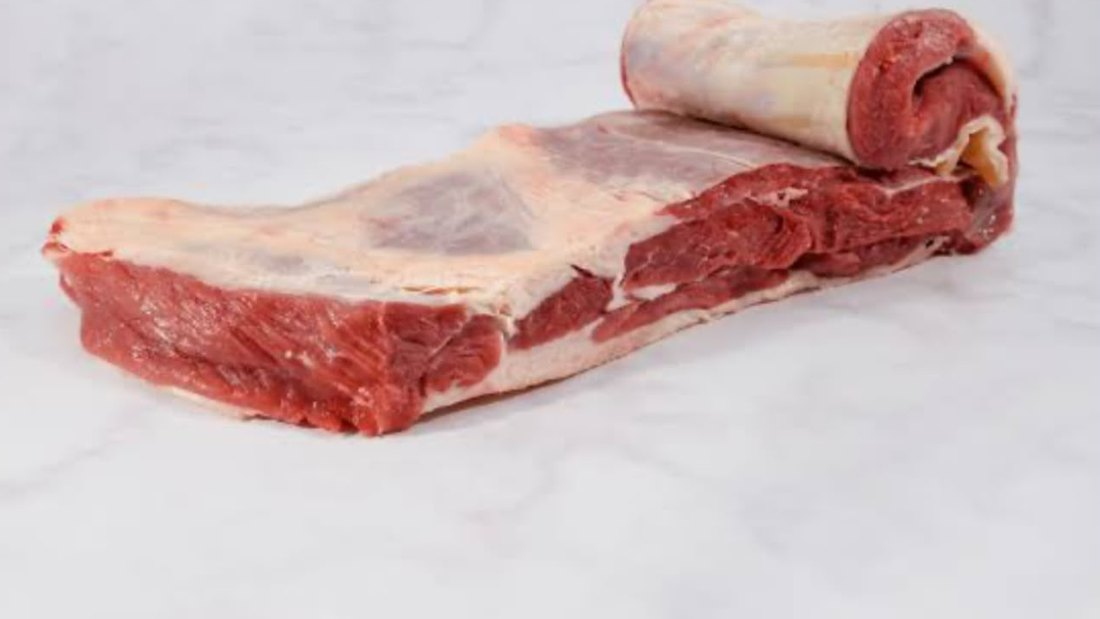
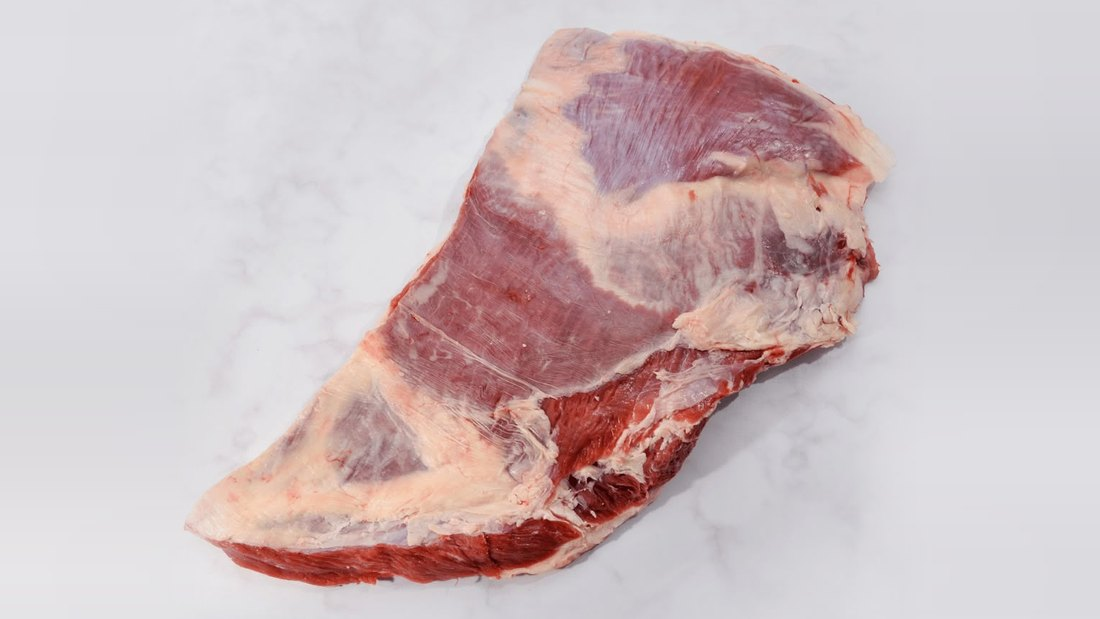
Carne: Entrana a 34.000 y Vacio entero a 25.200 (lista de Lucas del 8/10); las fotos de Vacio porcionado y Vacio entero estaban cruzadas

diff --git a/app.js b/app.js
@@ -33,8 +33,8 @@ var IMG_V = {
   "carne-ojo-bife.jpg": "819ef24d",
   "carne-peceto.jpg": "2bb317d2",
   "carne-picana.jpg": "05684de8",
-  "carne-vacio-entero.jpg": "be8621f0",
-  "carne-vacio.jpg": "c1827fc5",
+  "carne-vacio-entero.jpg": "c1827fc5",
+  "carne-vacio.jpg": "be8621f0",
   "categoria-carnes.jpg": "7b69d315",
   "combo-finde.jpg": "4e0022fd",
   "combo-freezer.jpg": "2d59c6e7",
@@ -149,13 +149,13 @@ const PRODUCTOS = [
   /* La entrana viene de a DOS tiras por paquete (dato de Lucas, 10/9/2026), y
      el peso que se ve es el del paquete entero. Sin decirlo, el que elige una
      de 1,163 kg no sabe si le llega una tira grande o dos. */
-  { id:31, abbr:"CEn", cat:"Carnes", porPeso:true, zonas:["estancias","pilar"], nombre:"Entra\u00f1a",           desc:"Fina, sabrosa y r\u00e1pida. La que sale primero de la parrilla.",          precio:37625, img:"carne-entrana.jpg", emoji:"\ud83e\udd69", chips:["Fresca, no congelada","Envasada al vac\u00edo","2 tiras por paquete"] },
+  { id:31, abbr:"CEn", cat:"Carnes", porPeso:true, zonas:["estancias","pilar"], nombre:"Entra\u00f1a",           desc:"Fina, sabrosa y r\u00e1pida. La que sale primero de la parrilla.",          precio:34000, img:"carne-entrana.jpg", emoji:"\ud83e\udd69", chips:["Fresca, no congelada","Envasada al vac\u00edo","2 tiras por paquete"] },
   { id:32, abbr:"CLo", cat:"Carnes", porPeso:true, zonas:["estancias","pilar"], nombre:"Lomo sin cord\u00f3n",  desc:"El corte m\u00e1s tierno, limpio y sin cord\u00f3n. Para la ocasi\u00f3n que se merece el mejor.", precio:33000, img:"carne-lomo.jpg", emoji:"\ud83e\udd69", chips:["Fresco, no congelado","Envasado al vac\u00edo","Sin cord\u00f3n"] },
   { id:33, abbr:"CPi", cat:"Carnes", porPeso:true, zonas:["estancias","pilar"], nombre:"Pica\u00f1a",            desc:"El corte brasilero que se volvi\u00f3 infaltable. Con su tapa de grasa.",  precio:22875, img:"carne-picana.jpg", emoji:"\ud83e\udd69", chips:["Fresca, no congelada","Envasada al vac\u00edo"] },
   { id:34, abbr:"CVa", cat:"Carnes", porPeso:true, zonas:["estancias","pilar"], nombre:"Vac\u00edo porcionado", desc:"El cl\u00e1sico del asado argentino, en porciones. Paciencia y fuego bajo.", precio:26000, img:"carne-vacio.jpg", emoji:"\ud83e\udd69", chips:["Fresco, no congelado","Envasado al vac\u00edo","Porcionado"] },
   /* Los cortes de LM Carnes (7/10/2026): ids 35-41 del ERP (HOME_PRODUCT_COLS
      CJ-CP, PILAR CB-CH, RED CM-CS). Precios de la lista de Lucas. */
-  { id:35, abbr:"CVE", cat:"Carnes", porPeso:true, zonas:["estancias","pilar"], nombre:"Vac\u00edo entero", desc:"La pieza entera, como la pide el asador. Para una parrillada en serio.", precio:26000, img:"carne-vacio-entero.jpg", emoji:"\ud83e\udd69", chips:["Fresco, no congelado","Envasado al vac\u00edo","Pieza entera"] },
+  { id:35, abbr:"CVE", cat:"Carnes", porPeso:true, zonas:["estancias","pilar"], nombre:"Vac\u00edo entero", desc:"La pieza entera, como la pide el asador. Para una parrillada en serio.", precio:25200, img:"carne-vacio-entero.jpg", emoji:"\ud83e\udd69", chips:["Fresco, no congelado","Envasado al vac\u00edo","Pieza entera"] },
   { id:36, abbr:"CBC", cat:"Carnes", porPeso:true, zonas:["estancias","pilar"], nombre:"Bife de Chorizo", desc:"Jugoso y con su borde de grasa. El cl\u00e1sico de la parrilla.", precio:29250, img:"carne-bife-chorizo.jpg", emoji:"\ud83e\udd69", chips:["Fresco, no congelado","Envasado al vac\u00edo"] },
   { id:37, abbr:"COB", cat:"Carnes", porPeso:true, zonas:["estancias","pilar"], nombre:"Ojo de Bife", desc:"Bien marmolado, tierno y lleno de sabor. Vuelta y vuelta.", precio:30325, img:"carne-ojo-bife.jpg", emoji:"\ud83e\udd69", chips:["Fresco, no congelado","Envasado al vac\u00edo"] },
   { id:38, abbr:"CMa", cat:"Carnes", porPeso:true, zonas:["estancias","pilar"], nombre:"Matambre entero", desc:"A la parrilla, a la pizza o arrollado. Rinde un mont\u00f3n.", precio:22825, img:"carne-matambre.jpg", emoji:"\ud83e\udd69", chips:["Fresco, no congelado","Envasado al vac\u00edo","Pieza entera"] },

diff --git a/index.html b/index.html
@@ -825,6 +825,6 @@
   </div>
 </div>
 
-<script src="app.js?v=52f2ac4f"></script>
+<script src="app.js?v=fbd973b5"></script>
 </body>
 </html>
